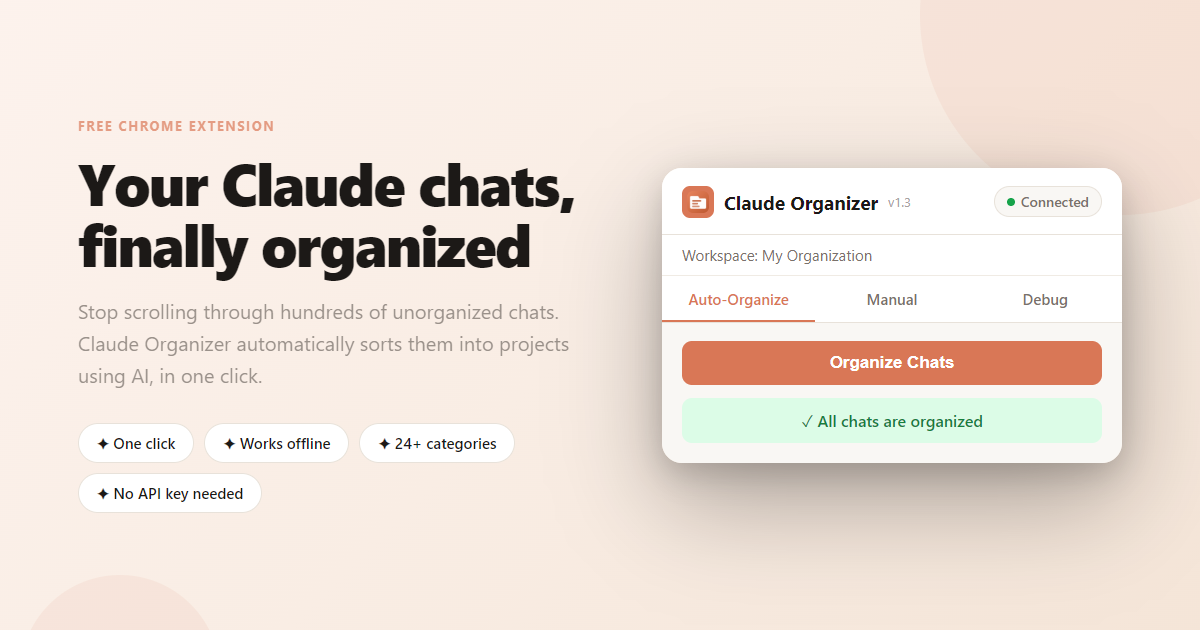
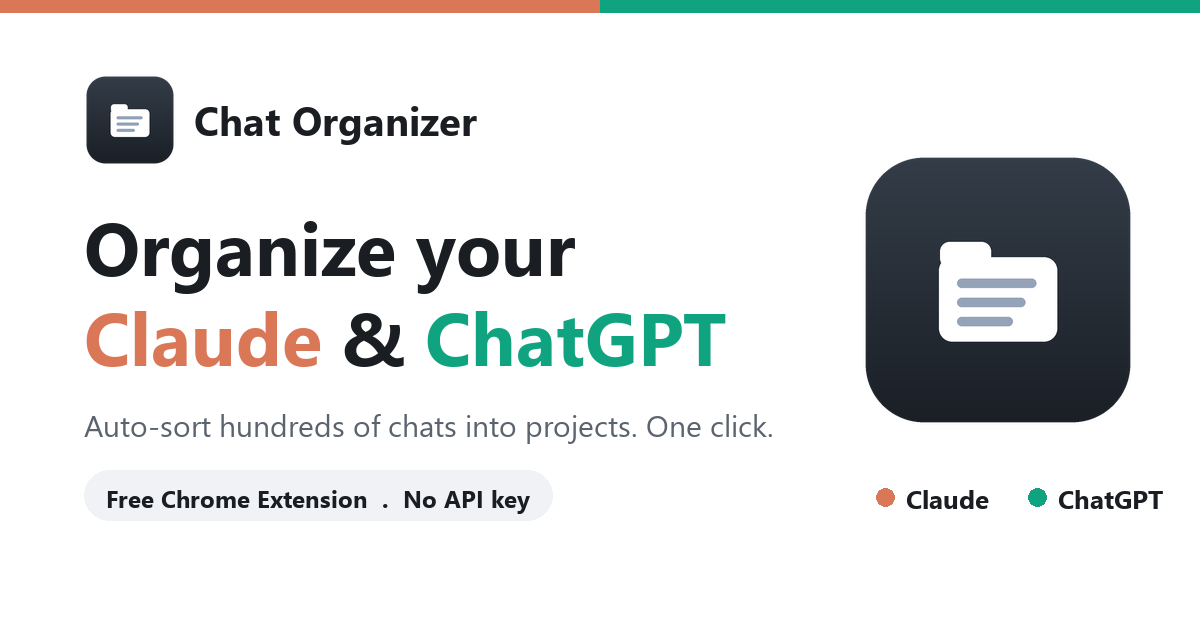
Give the site a Claude + ChatGPT visual feel
Hero mockup now shows the real platform switcher (Claude active, ChatGPT option)
and v2.0.0. New dual social-preview.png (orange Claude + green ChatGPT, slate
icon). changelog.html gets a v2.0.0 entry. "Loved by Claude and ChatGPT power
users."

diff --git a/changelog.html b/changelog.html
@@ -10,7 +10,7 @@
 
   <!-- Open Graph -->
   <meta property="og:title" content="Changelog – Chat Organizer">
-  <meta property="og:description" content="See what's new in Chat Organizer. Latest release: v1.8.0.">
+  <meta property="og:description" content="See what's new in Chat Organizer. Latest release: v2.0.0.">
   <meta property="og:type" content="website">
   <meta property="og:url" content="https://chat-organizer.com/changelog.html">
   <meta property="og:image" content="https://chat-organizer.com/social-preview.png">
@@ -20,7 +20,7 @@
   <!-- Twitter Card -->
   <meta name="twitter:card" content="summary_large_image">
   <meta name="twitter:title" content="Changelog – Chat Organizer">
-  <meta name="twitter:description" content="See what's new in Chat Organizer. Latest release: v1.8.0.">
+  <meta name="twitter:description" content="See what's new in Chat Organizer. Latest release: v2.0.0.">
   <meta name="twitter:image" content="https://chat-organizer.com/social-preview.png">
 
   <link rel="icon" type="image/svg+xml" href="favicon.svg">
@@ -210,6 +210,20 @@
 <main>
   <h1>Changelog</h1>
   <p class="meta">What is new in Chat Organizer.</p>
+
+  <div class="release">
+    <div class="release-head">
+      <span class="ver">v2.0.0</span>
+      <span class="ver-date">June 2026</span>
+      <span class="tag">New</span>
+    </div>
+    <h3>ChatGPT support and a new name: Chat Organizer</h3>
+    <ul>
+      <li><strong>ChatGPT support.</strong> Chat Organizer now works on chatgpt.com as well as claude.ai. A platform switcher in the popup picks which one to organize, and it auto-selects based on the tab you are on. The same one-click organize flow, keyword matching, AI categorization, and preview work on both.</li>
+      <li><strong>New name and look.</strong> Rebranded from "Claude Chat Organizer" to "Chat Organizer for Claude and ChatGPT", with a refreshed neutral icon and a calmer popup theme that adopts the color of the platform you select.</li>
+      <li><strong>Your chats are never deleted.</strong> On ChatGPT, empty-project cleanup is intentionally disabled, because deleting a ChatGPT Project also deletes the chats inside it.</li>
+    </ul>
+  </div>
 
   <div class="release">
     <div class="release-head">

diff --git a/index.html b/index.html
@@ -341,6 +341,13 @@
     .popup-ver { font-size: 0.65rem; color: var(--faint); font-weight: 400; }
     .popup-connected { display: flex; align-items: center; gap: 5px; font-size: 0.68rem; color: var(--green); font-weight: 600; }
     .popup-connected::before { content: ''; width: 7px; height: 7px; border-radius: 50%; background: var(--green); }
+    .popup-switch { display: flex; gap: 6px; padding: 8px 12px; background: var(--surface); border-bottom: 1px solid var(--border); }
+    .popup-seg { flex: 1; display: flex; align-items: center; justify-content: center; gap: 6px; padding: 6px 8px; border: 1px solid var(--border); border-radius: 8px; background: var(--bg); color: var(--muted); font-size: 0.7rem; font-weight: 700; }
+    .popup-seg.active { background: var(--primary); color: #fff; border-color: var(--primary); }
+    .seg-dot { width: 7px; height: 7px; border-radius: 50%; flex-shrink: 0; }
+    .seg-dot.claude { background: #D97756; }
+    .seg-dot.chatgpt { background: #10A37F; }
+    .popup-seg.active .seg-dot { background: #fff; }
     .popup-tabs { display: flex; border-bottom: 1px solid var(--border); background: var(--surface); }
     .popup-tab { flex: 1; padding: 9px 0; font-size: 0.7rem; font-weight: 600; color: var(--faint); text-align: center; border-bottom: 2px solid transparent; }
     .popup-tab.active { color: var(--primary); border-bottom-color: var(--primary); }
@@ -573,7 +580,7 @@
       <p class="hero-sub" data-i18n="hero.sub">Hundreds of chats and zero order? Chat Organizer is the AI chat organizer that scans them all, builds a plan, and moves every Claude and ChatGPT chat into projects in one click.</p>
       <div class="hero-stars">
         <span class="stars" aria-label="5 out of 5 stars">&#9733;&#9733;&#9733;&#9733;&#9733;</span>
-        <span data-i18n="hero.stars">Loved by Claude power users</span>
+        <span data-i18n="hero.stars">Loved by Claude and ChatGPT power users</span>
       </div>
       <a href="https://chromewebstore.google.com/detail/bipbaacophbcpboieghjoigjlbemchcm" class="btn-primary">
         <svg viewBox="0 0 16 16" fill="none" stroke="currentColor" stroke-width="2" stroke-linecap="round" stroke-linejoin="round" aria-hidden="true"><path d="M8 2C4.686 2 2 4.686 2 8s2.686 6 6 6 6-2.686 6-6-2.686-6-6-6z"/><circle cx="8" cy="8" r="2.5" fill="currentColor" stroke="none"/></svg>
@@ -596,13 +603,18 @@
             <div class="popup-header">
               <div class="popup-brand">
                 <div class="popup-icon"><img src="icon128.png" alt=""></div>
-                Chat Organizer <span class="popup-ver">v1.8.0</span>
+                Chat Organizer <span class="popup-ver">v2.0.0</span>
               </div>
               <div class="popup-connected">Connected</div>
+            </div>
+            <div class="popup-switch">
+              <div class="popup-seg active"><span class="seg-dot claude"></span>Claude</div>
+              <div class="popup-seg"><span class="seg-dot chatgpt"></span>ChatGPT</div>
             </div>
             <div class="popup-tabs">
               <div class="popup-tab active">Auto-Organize</div>
               <div class="popup-tab">Manual</div>
+              <div class="popup-tab">Rules</div>
               <div class="popup-tab">Debug</div>
             </div>
             <div class="popup-body">

diff --git a/translations.js b/translations.js
@@ -3,7 +3,7 @@
     en: {
       meta: { title: "Chat Organizer for Claude & ChatGPT: Auto-Sort Chats | Free Chrome Extension", description: "Chat Organizer auto-sorts your Claude and ChatGPT chats into projects in one click. Free Chrome extension, no API key needed." },
       nav:  { cta: "Add to Chrome" },
-      hero: { badge: "Free Chrome Extension", h1: "Your Claude &amp; ChatGPT chats,<br><em>finally organized</em>", sub: "Hundreds of chats and zero order? Chat Organizer is the AI chat organizer that scans them all, builds a plan, and moves every Claude and ChatGPT chat into projects in one click.", stars: "Loved by Claude power users", cta: "Add to Chrome, it’s free", note1: "No API key required", note2: "No account needed", note3: "Works in seconds" },
+      hero: { badge: "Free Chrome Extension", h1: "Your Claude &amp; ChatGPT chats,<br><em>finally organized</em>", sub: "Hundreds of chats and zero order? Chat Organizer is the AI chat organizer that scans them all, builds a plan, and moves every Claude and ChatGPT chat into projects in one click.", stars: "Loved by Claude and ChatGPT power users", cta: "Add to Chrome, it’s free", note1: "No API key required", note2: "No account needed", note3: "Works in seconds" },
       stats: { v1: "Free", l1: "No subscription ever", l2: "Chat topics recognized", l3: "Built-in categories", l4: "Full organize run" },
       hiw:  { eyebrow: "How it works", title: "Three steps, one click", sub: "You see the full plan before anything moves. Nothing happens without your approval." },
       step1: { title: "Click Organize", desc: "The extension scans all your unorganized chats and builds a move plan using keyword matching and AI. Takes a few seconds." },

diff --git a/make_social.py b/make_social.py
@@ -1,0 +1,68 @@
+#!/usr/bin/env python3
+"""Generate social-preview.png (1200x630 OG share image), dual Claude + ChatGPT.
+
+Run:  python make_social.py
+"""
+from PIL import Image, ImageDraw, ImageFont
+
+W, H = 1200, 630
+CLAUDE = (217, 119, 86)    # #D97756
+CHATGPT = (16, 163, 127)   # #10A37F
+SLATE = (26, 29, 33)       # #1A1D21
+MUTED = (90, 99, 110)
+BG = (255, 255, 255)
+
+F = "C:/Windows/Fonts/segoeui.ttf"
+FB = "C:/Windows/Fonts/segoeuib.ttf"
+def font(path, size): return ImageFont.truetype(path, size)
+
+img = Image.new("RGB", (W, H), BG)
+d = ImageDraw.Draw(img)
+
+# Top dual accent bar: orange | green.
+d.rectangle([0, 0, W // 2, 12], fill=CLAUDE)
+d.rectangle([W // 2, 0, W, 12], fill=CHATGPT)
+
+# --- Left column ---
+x = 84
+# App icon (slate folder mark).
+icon = Image.open("../claude-chat-organizer/icons/icon-master-1024.png").convert("RGBA").resize((92, 92), Image.LANCZOS)
+img.paste(icon, (x, 74), icon)
+d.text((x + 110, 92), "Chat Organizer", font=font(FB, 40), fill=SLATE)
+
+# Headline.
+d.text((x, 196), "Organize your", font=font(FB, 74), fill=SLATE)
+# Colored "Claude & ChatGPT" line.
+y2 = 286
+segs = [("Claude", CLAUDE), (" & ", SLATE), ("ChatGPT", CHATGPT)]
+fh = font(FB, 74)
+cx = x
+for text, color in segs:
+    d.text((cx, y2), text, font=fh, fill=color)
+    cx += d.textlength(text, font=fh)
+
+# Subtitle.
+d.text((x, 404), "Auto-sort hundreds of chats into projects. One click.",
+       font=font(F, 30), fill=MUTED)
+
+# Free pill.
+pill = font(FB, 24)
+pt = "Free Chrome Extension  .  No API key"
+pw = d.textlength(pt, font=pill)
+d.rounded_rectangle([x, 470, x + pw + 44, 470 + 50], radius=25, fill=(240, 242, 245))
+d.text((x + 22, 482), pt, font=pill, fill=SLATE)
+
+# --- Right column: big icon + platform chips ---
+big = Image.open("../claude-chat-organizer/icons/icon-master-1024.png").convert("RGBA").resize((280, 280), Image.LANCZOS)
+bx, by = 858, 150
+img.paste(big, (bx, by), big)
+
+chip = font(FB, 26)
+def chip_draw(cx, cy, dot, label):
+    d.ellipse([cx, cy + 8, cx + 18, cy + 26], fill=dot)
+    d.text((cx + 30, cy), label, font=chip, fill=SLATE)
+chip_draw(bx + 18, 480, CLAUDE, "Claude")
+chip_draw(bx + 170, 480, CHATGPT, "ChatGPT")
+
+img.save("social-preview.png")
+print("wrote social-preview.png", img.size)